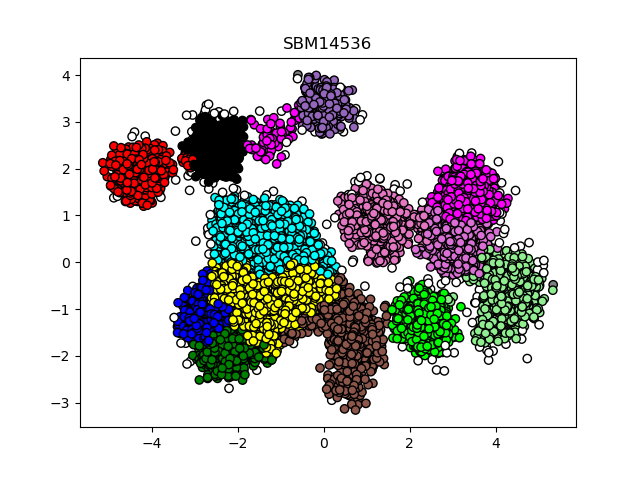
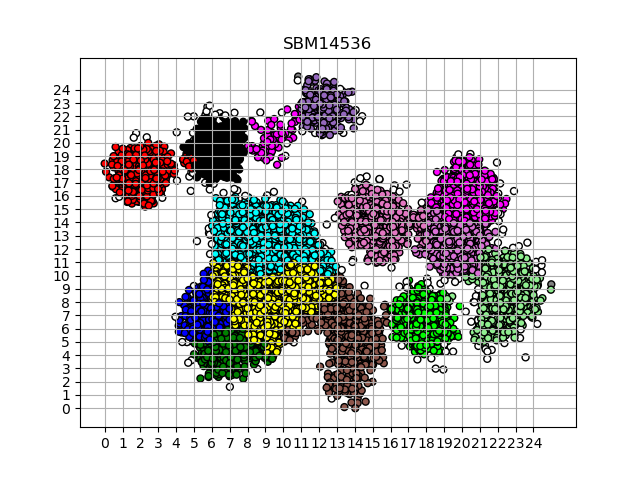
modifications and comments

Changed region(s): [[0.0625, 0.125, 0.9062, 0.875], [0.1562, 0.9062, 0.8438, 0.9375]]

diff --git a/SBM_functions.py b/SBM_functions.py
@@ -21,13 +21,22 @@ def get_neighbours(point, shape):
 
     :returns neighbours: array - vector of coordinates of the neighbours
     """
+    # ndim = the number of dimensions of a point=chunk
     ndim = len(point)
-    offsetIndexes = np.indices((3,) * ndim).reshape(ndim, -1).T
-    offsets = np.r_[-1, 0, 1].take(offsetIndexes)
-    offsets = offsets[np.any(offsets, 1)]
 
+    #offsetIndexes gives all the possible neighbours ( (0,0)...(2,2) ) of an unknown point in n-dimensions
+    offsetIndexes = np.indices((3,) * ndim).reshape(ndim, -1).T
+
+    # np.r_ does row-wise merging (basically concatenate), this instructions is equivalent to offsets=np.array([-1, 0, 1]).take(offsetIndexes)
+    offsets = np.r_[-1, 0, 1].take(offsetIndexes)
+
+    #remove the point itself (0,0) from the offsets (np.any will give False only for the point that contains only 0 on all dimensions)
+    offsets = offsets[np.any(offsets, axis=1)]
+
+    # calculate the coordinates of the neighbours of the point using the offsets
     neighbours = point + offsets
 
+    # validate the neighbours so they do not go out of the array
     valid = np.all((neighbours < np.array(shape)) & (neighbours >= 0), axis=1)
     neighbours = neighbours[valid]
 

diff --git a/scatter_plot.py b/scatter_plot.py
@@ -2,6 +2,7 @@ import matplotlib.pyplot as plt
 from mpl_toolkits.mplot3d import Axes3D
 import numpy as np
 import math
+from sklearn import preprocessing
 
 LABEL_COLOR_MAP = {-1: 'gray',
                    0: 'white',
@@ -75,6 +76,7 @@ def plot_centers(title, X, clusterCenters, pn, plot=True, marker='o'):
 
     :returns None
     """
+
     if plot:
         fig = plt.figure()
         plt.title(title)
@@ -103,6 +105,7 @@ def plot_grid(title, X, pn, labels=None, plot=True, marker='o'):
 
     :returns None
     """
+    X = preprocessing.MinMaxScaler((0, pn)).fit_transform(X)
     if plot:
         nrDim = len(X[0])
         label_color = [LABEL_COLOR_MAP[l] for l in labels]

diff --git a/benchmark_data.py b/benchmark_data.py
@@ -186,7 +186,7 @@ def simulations_average_accuracy():
 
         allAccuracies = np.vstack((allAccuracies, np.insert(np.append(accuracy_kmeans, np.append(accuracy_dbscan, np.append(accuracy_sbmv2, accuracy_sbmv1)))*100, 0, i)))
         #print(allAccuracies)
-    np.savetxt("PCA3D_accuracy.csv", allAccuracies, delimiter=',', header=header, fmt="%10.2f")
+    np.savetxt("PCA3D_accuracy_align2.csv", allAccuracies, delimiter=',', header=header, fmt="%10.2f")
     print("Average KMeans: {}".format(np.array(averageKMeans)/92))
     print("Average DBSCAN: {}".format(np.array(averageDBSCAN)/92))
     print("Average SBMv2: {}".format(np.array(averageSBMv2)/92))

diff --git a/main.py b/main.py
@@ -19,10 +19,10 @@ def main():
     end = time.time()
     print('SBM: ' + str(end - start))
 
-    scatter_plot.plot('SBM' + str(len(data)), data, labels, marker='o')
+    scatter_plot.plot_grid('SBM' + str(len(data)), data, pn, labels, marker='o')
     plt.savefig('./figures/SBMv2_sim79')
 
-    scatter_plot.plot('SBM' + str(len(data)), data, y, marker='o')
+    scatter_plot.plot_grid('SBM' + str(len(data)), data, pn, y, marker='o')
     # plt.show()
     plt.savefig('./figures/ground_truth')
 

diff --git a/datasets.py b/datasets.py
@@ -57,7 +57,7 @@ def spike_preprocess(signal, spike_start, spike_length, align_to_peak, normalize
 
         # re-extract spikes with new alignment
         spikes = spike_extract(signal, spike_start, spike_length)
-    if align_to_peak == 2:
+    elif align_to_peak == 2:
         # peak_ind is a vector that contains the index (0->78 / 79 points for each spike) of the maximum of each spike
         peak_ind = np.argmax(spikes, axis=1)
         # avg_peak is the avg of all the peaks
